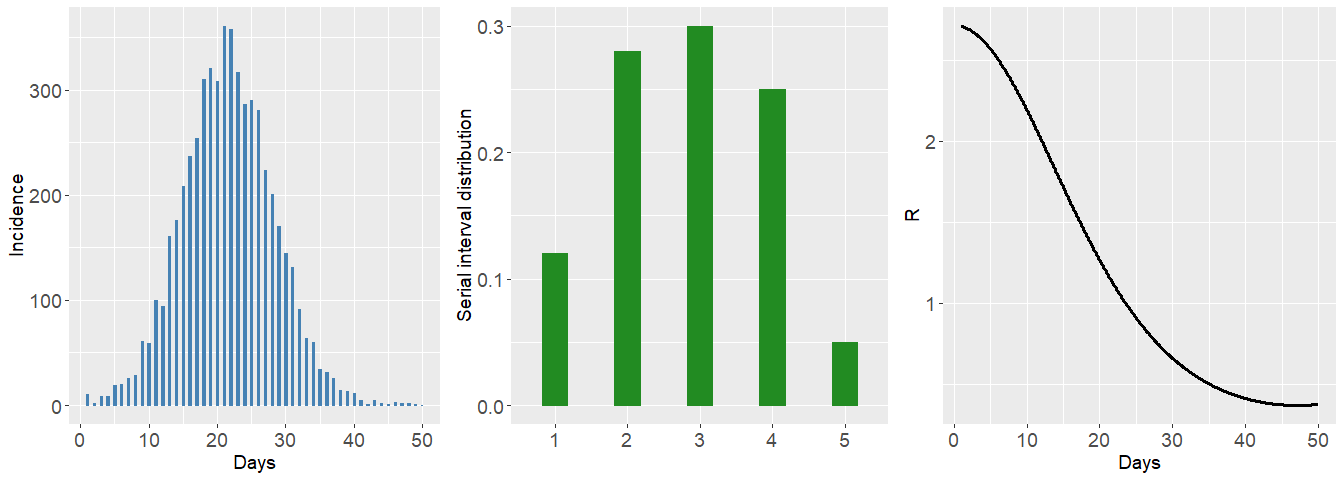
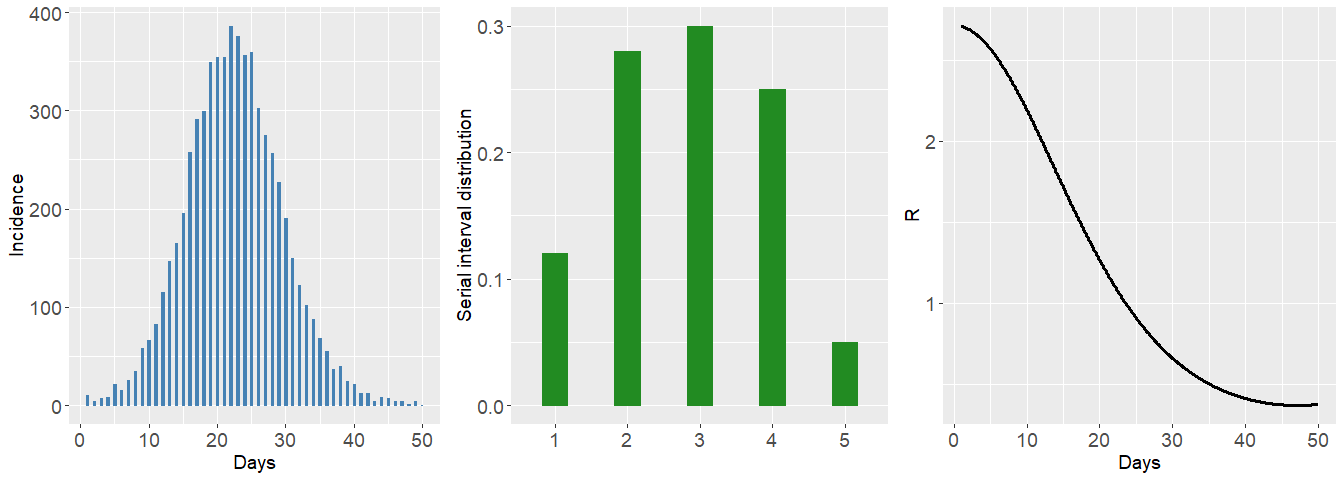
Adding epicurve routine

diff --git a/README.md b/README.md
@@ -120,9 +120,9 @@ The simulated incidence count data can be accessed by typing:
 simepi$y
 ```
 
-    ##  [1]  10   2   9   9  19  20  26  29  61  59 100  94 161 176 208 237 254 310 321
-    ## [20] 308 361 358 317 287 290 281 224 201 170 145 131  91  64  60  34  31  26  14
-    ## [39]  13  11   5   1   5   2   1   3   2   2   1   0
+    ##  [1]  10   4   7   8  21  15  25  35  58  66  82 115 147 165 195 258 291 299 349
+    ## [20] 354 354 386 376 356 359 302 275 256 227 190 150 122 102  88  68  55  37  40
+    ## [39]  24  21  12  12   4   8   7   4   4   1   4   0
 
 The `epilps()` routine can be used to fit the epidemic data. By default,
 the LPSMAP approach is used with 30 B-splines in the interval $[1;50]$
@@ -135,8 +135,8 @@ epifit_LPSMAP <- epilps(incidence = simepi$y, serial_interval = si, tictoc = TRU
 
     ## Inference method chosen: LPSMAP. 
     ## CI for LPSMAP computed via lognormal posterior approx. of Rt.Total number of days: 50. 
-    ## Mean Rt discarding first 7 days: 0.962.
-    ## Mean 95% CI of Rt discarding first 7 days: (0.846,1.121) 
+    ## Mean Rt discarding first 7 days: 0.996.
+    ## Mean 95% CI of Rt discarding first 7 days: (0.891,1.129) 
     ## Elapsed real time (wall clock time): 0.18 seconds.
 
 ``` r
@@ -172,13 +172,13 @@ knitr::kable(epifit_LPSMAP$epifit[8:14,2:4])
 
 |     |  R_estim | R95CI_low | R95CI_up |
 |:----|---------:|----------:|---------:|
-| 8   | 2.204270 |  1.894574 | 2.564590 |
-| 9   | 2.236554 |  1.964842 | 2.545839 |
-| 10  | 2.229905 |  1.988416 | 2.500723 |
-| 11  | 2.176162 |  1.973002 | 2.400241 |
-| 12  | 2.087442 |  1.912433 | 2.278466 |
-| 13  | 1.978134 |  1.832564 | 2.135269 |
-| 14  | 1.852436 |  1.726431 | 1.987637 |
+| 8   | 2.259382 |  1.944734 | 2.624938 |
+| 9   | 2.289891 |  2.013896 | 2.603711 |
+| 10  | 2.253986 |  2.011870 | 2.525240 |
+| 11  | 2.168438 |  1.967785 | 2.389551 |
+| 12  | 2.059429 |  1.887723 | 2.246753 |
+| 13  | 1.947241 |  1.803403 | 2.102551 |
+| 14  | 1.842764 |  1.717211 | 1.977498 |
 
 A smooth estimate of the epidemic curve can be obtained with the code
 below. The option `epicol` controls the color of the curve and
@@ -332,7 +332,7 @@ simexample <- perfcheck(S = 20, method = "LPSMALA",
 
 ## Package version
 
-This is version 1.0.6 (2022-07-28) - “Welcome to the Metaverse”.
+This is version 1.0.7 (2023-01-17) - “Thunderlight”.
 
 ## Acknowledgments
 

diff --git a/NEWS.md b/NEWS.md
@@ -27,3 +27,8 @@
 * Version name: "Welcome to the Metaverse"
 * Added midwindow option to the perfcheck routine. It reports EpiEstim 
   reproduction number (Rt) estimates at the middle of the sliding window.
+  
+### Version 1.0.7 ### (**2023-01-17**)
+
+* Version name: "Thunderlight"
+* Added epicurve() routine to plot the epidemic curve based on incidence data.
